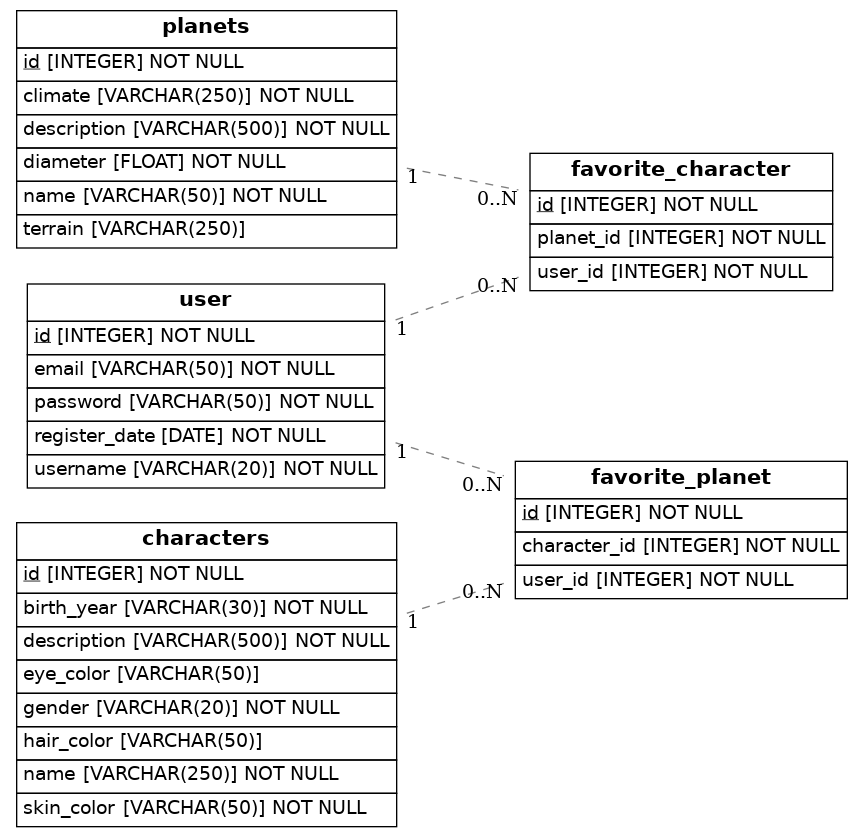
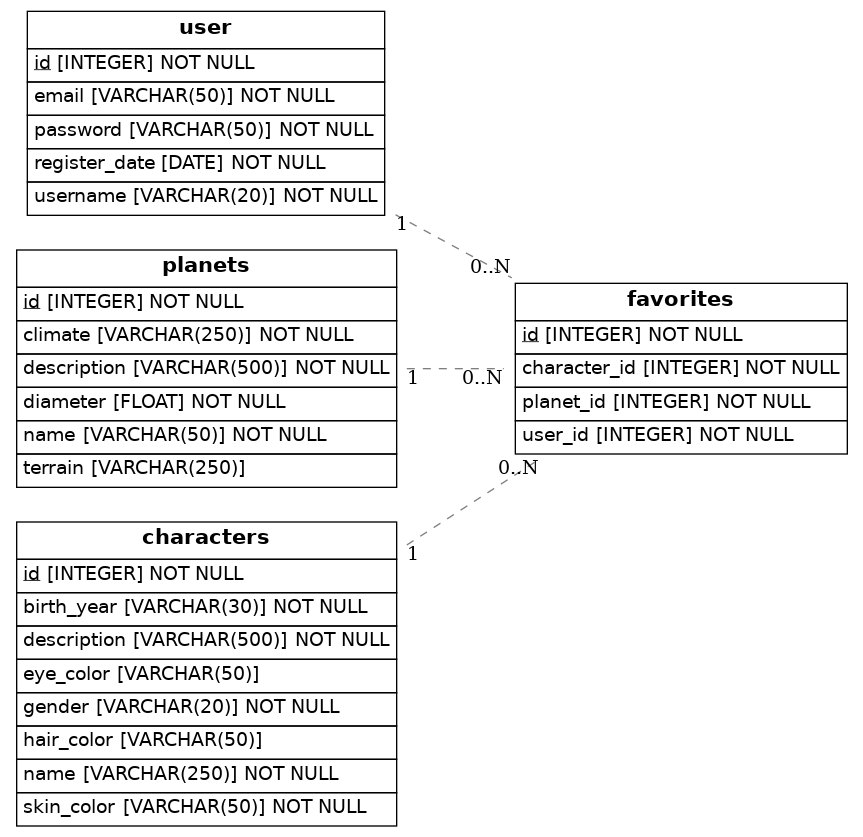
Favorites fix ⭐

diff --git a/src/models.py b/src/models.py
@@ -41,8 +41,8 @@ class Characters(Base):
     birth_year = Column(String(30), nullable=False)
 
     
-class FavoriteCharacter(Base):
-    __tablename__ = 'favorite_character'
+class Favorite(Base):
+    __tablename__ = 'favorites'
 
     id = Column(Integer, primary_key=True)
     user_id = Column(Integer, ForeignKey("user.id"), nullable=False)
@@ -50,14 +50,9 @@ class FavoriteCharacter(Base):
     planet_id = Column(Integer, ForeignKey("planets.id"), nullable=False)
     planet = relationship(Planets)
 
-class FavoritePlanet(Base):
-    __tablename__ = 'favorite_planet'
-
-    id = Column(Integer, primary_key=True)
-    user_id = Column(Integer, ForeignKey("user.id"), nullable=False)
-
     character_id = Column(Integer, ForeignKey("characters.id"), nullable=False)
     character = relationship(Characters)
+
 
 ## Draw from SQLAlchemy base
 render_er(Base, 'diagram.png')
